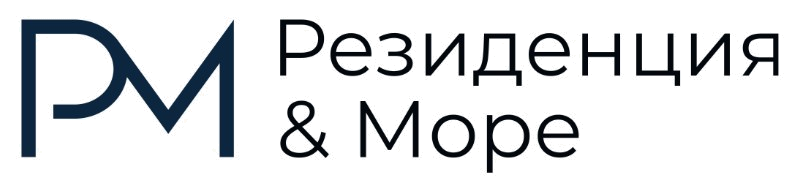
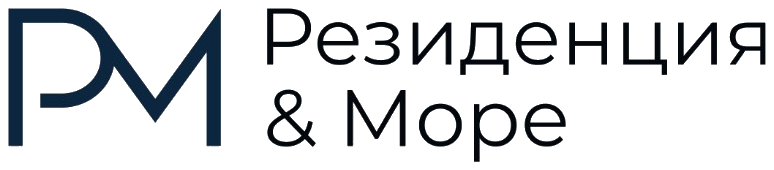
Убрать фон у водяного знака, увеличить логотип и понятнее объяснить отказ Rutube при входе.

Changed region(s): [[0.3411, 0.0294, 0.9922, 0.4412], [0.0, 0.0294, 0.3101, 0.8824], [0.3411, 0.5, 0.7442, 0.9412]]

diff --git a/src/lib/video-hosts.server.ts b/src/lib/video-hosts.server.ts
@@ -155,26 +155,64 @@ async function jsonOrText(response: Response) {
   }
 }
 
+function rutubeErrorText(payload: Record<string, unknown>, status: number) {
+  const parts = [
+    payload["detail"],
+    payload["non_field_errors"],
+    payload["username"],
+    payload["password"],
+    payload["raw"],
+  ]
+    .flatMap((value) => (Array.isArray(value) ? value : [value]))
+    .map((value) => String(value ?? "").trim())
+    .filter(Boolean);
+  return parts.join(" ") || String(status);
+}
+
 async function rutubeToken(settings: VideoHostSettings) {
   if (settings.rutube_token.trim()) return settings.rutube_token.trim();
   if (!settings.rutube_email || !settings.rutube_password) {
     throw new Error("Rutube не подключён");
   }
-  const response = await fetch("https://rutube.ru/api/accounts/token_auth/", {
-    method: "POST",
-    headers: { "Content-Type": "application/json" },
-    body: JSON.stringify({
-      username: settings.rutube_email.trim(),
-      password: settings.rutube_password,
-    }),
-  });
-  const payload = await jsonOrText(response);
-  const token = String(payload["token"] ?? payload["key"] ?? "").trim();
-  if (!response.ok || !token) {
-    throw new Error(`Rutube вход: ${String(payload["detail"] ?? payload["raw"] ?? response.status)}`);
+  const email = settings.rutube_email.trim();
+  const password = settings.rutube_password;
+  const headers = {
+    Accept: "application/json",
+    "Content-Type": "application/json",
+    "User-Agent": "Rutube_PHPClient",
+  };
+  const attempts: Array<{ body: string; contentType: string }> = [
+    {
+      body: JSON.stringify({ username: email, password }),
+      contentType: "application/json",
+    },
+    {
+      body: JSON.stringify({ username: email, email, password }),
+      contentType: "application/json",
+    },
+    {
+      body: new URLSearchParams({ username: email, password }).toString(),
+      contentType: "application/x-www-form-urlencoded",
+    },
+  ];
+  let last = "400";
+  for (const attempt of attempts) {
+    const response = await fetch("https://rutube.ru/api/accounts/token_auth/", {
+      method: "POST",
+      headers: { ...headers, "Content-Type": attempt.contentType },
+      body: attempt.body,
+    });
+    const payload = await jsonOrText(response);
+    const token = String(payload["token"] ?? payload["key"] ?? "").trim();
+    if (response.ok && token) {
+      await saveVideoHostSettings({ rutube_token: token });
+      return token;
+    }
+    last = rutubeErrorText(payload, response.status);
   }
-  await saveVideoHostSettings({ rutube_token: token });
-  return token;
+  throw new Error(
+    `Rutube вход: ${last}. Пароль с сайта Rutube для API не подходит (часто из‑за капчи). В Настройках → Видеоканалы вставьте Token API.`,
+  );
 }
 
 async function publishRutube(settings: VideoHostSettings, title: string, description: string, fileUrl: string) {

diff --git a/src/lib/video-watermark.server.ts b/src/lib/video-watermark.server.ts
@@ -28,7 +28,7 @@ async function hasFfmpeg() {
 
 /**
  * Накладывает логотип Residence More в правом нижнем углу.
- * Под ним — полупрозрачная «стеклянная» подложка, сам знак крупнее и слегка прозрачный.
+ * Только прозрачное название, без подложки; ширина около 42% кадра.
  */
 export async function overlayVideoWatermark(input: Buffer): Promise<Buffer> {
   const mark = watermarkPngPath();
@@ -50,12 +50,9 @@ export async function overlayVideoWatermark(input: Buffer): Promise<Buffer> {
         mark,
         "-filter_complex",
         [
-          "[1:v]format=rgba,colorchannelmixer=aa=0.80[logo]",
-          "[logo][0:v]scale2ref=w=main_w*0.30:h=ow/mdar[wm][base]",
-          "[wm]split[mark][plate]",
-          "[plate]format=rgba,pad=iw+72:ih+52:36:26:white@0.20,boxblur=16:8[glass]",
-          "[base][glass]overlay=W-w-14:H-h-12[tmp]",
-          "[tmp][mark]overlay=W-w-50:H-h-38:format=auto",
+          "[1:v]format=rgba,colorkey=0xFFFFFF:0.18:0.12,colorchannelmixer=aa=0.95[logo]",
+          "[logo][0:v]scale2ref=w=main_w*0.42:h=ow/mdar[wm][base]",
+          "[base][wm]overlay=W-w-22:H-h-18:format=auto",
         ].join(";"),
         "-c:v",
         "libx264",
@@ -80,16 +77,16 @@ export async function overlayVideoWatermark(input: Buffer): Promise<Buffer> {
 }
 
 export function isWatermarkedVideoPath(path: string) {
-  return /-glass\.(mp4|m4v|mov|webm)$/i.test(path);
+  return /-logo\.(mp4|m4v|mov|webm)$/i.test(path);
 }
 
-/** Скачивает ролик, ставит стеклянный логотип и сохраняет как *-glass.mp4. */
+/** Скачивает ролик, ставит прозрачный логотип и сохраняет как *-logo.mp4. */
 export async function ensureWatermarkedPropertyVideo(path: string): Promise<string> {
   if (!path || isWatermarkedVideoPath(path)) return path;
   const { data, error } = await supabaseAdmin.storage.from(PHOTO_BUCKET).download(path);
   if (error || !data) throw new Error(error?.message || "Не удалось скачать видео для водяного знака");
   const overlayed = await overlayVideoWatermark(Buffer.from(await data.arrayBuffer()));
-  const next = `uploads/${crypto.randomUUID()}-glass.mp4`;
+  const next = `uploads/${crypto.randomUUID()}-logo.mp4`;
   const { error: uploadError } = await supabaseAdmin.storage.from(PHOTO_BUCKET).upload(next, overlayed, {
     cacheControl: "3600",
     upsert: false,

diff --git a/src/routes/_authenticated/system.video.tsx b/src/routes/_authenticated/system.video.tsx
@@ -101,8 +101,10 @@ function VideoHostsPage() {
         <CardHeader>
           <CardTitle>Rutube</CardTitle>
           <CardDescription>
-            Главный канал для площадок. {data?.rutube ? "Подключён." : "Пока не подключён."} Нужны
-            почта и пароль аккаунта канала (или готовый Token API). Author ID — из кабинета канала.
+            Главный канал для площадок. {data?.rutube ? "Подключён." : "Пока не подключён."} Почта и
+            пароль с сайта часто не принимаются API (капча). Надёжнее Token API: войдите в
+            studio.rutube.ru, либо получите токен запросом POST https://rutube.ru/api/accounts/token_auth/
+            с {"username":"почта","password":"пароль"} — в ответе поле token. Author ID канала — 59663094.
           </CardDescription>
         </CardHeader>
         <CardContent className="grid gap-3">

diff --git a/src/routes/api/photo-upload.ts b/src/routes/api/photo-upload.ts
@@ -90,7 +90,7 @@ export const Route = createFileRoute("/api/photo-upload")({
           }
         }
 
-        const path = `uploads/${crypto.randomUUID()}${watermarked ? "-glass" : ""}.${outExt}`;
+        const path = `uploads/${crypto.randomUUID()}${watermarked ? "-logo" : ""}.${outExt}`;
         const { supabaseAdmin } = await import("@/integrations/supabase/client.server");
         const { error } = await supabaseAdmin.storage.from(BUCKET).upload(path, body, {
           cacheControl: "3600",

diff --git a/src/lib/properties.ts b/src/lib/properties.ts
@@ -23,7 +23,7 @@ export type PropertyPhoto = {
 };
 
 export function isPropertyVideoPath(path: string) {
-  return /\.(mp4|m4v|mov|webm)$/i.test(path) || /-(wm|glass)\./i.test(path);
+  return /\.(mp4|m4v|mov|webm)$/i.test(path) || /-(wm|glass|logo)\./i.test(path);
 }
 
 export function splitPropertyMedia(photos: PropertyPhoto[] | null | undefined) {
